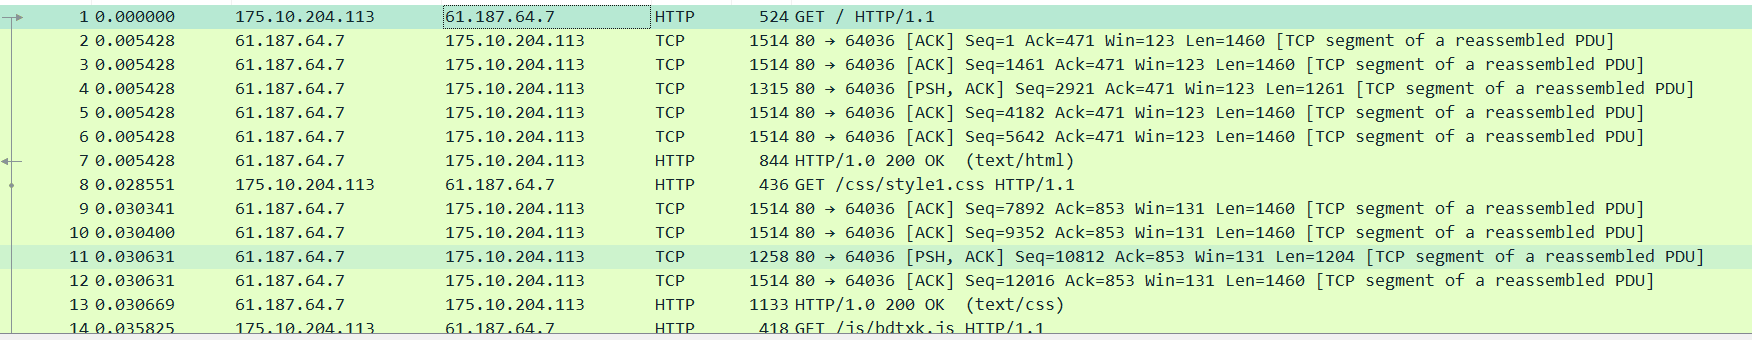
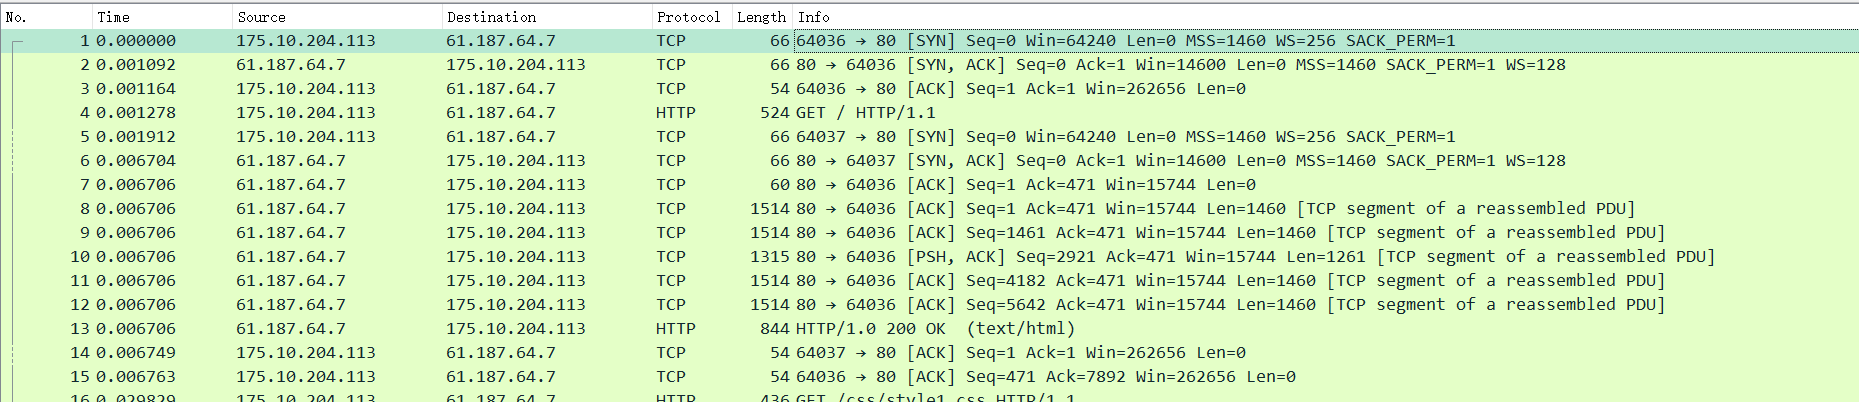
ex

diff --git a/source/_posts/HNU-computer-networks-exp1.md b/source/_posts/HNU-computer-networks-exp1.md
@@ -389,14 +389,14 @@ Wireshark（前称Ethereal）是一个网络封包分析软件。网络封包分
 
 | HTTP 客户机端口号 | HTTP 服务器端口号 | 所包括的报文号 | 步骤说明                             |
 | ----------------- | ----------------- | -------------- | ------------------------------------ |
-| 64036                | 80             | 889            | 浏览器向服务器发出连接请求           |
-| 64036                | 80             | 891            | 服务器回应了浏览器的请求，并要求确认 |
-| 64036                | 80             | 892            | 浏览器回应了服务器的确认，连接成功   |
-| 64036                | 80             | 893            | 浏览器发出一个页面HTTP请求           |
-| 64036                | 80             | 898            | 服务器确认                           |
-| 64036                | 80             | 899-903        | 服务器发送数据                       |
-| 64036                | 80             | 904            | 服务器发送状态响应码                 |
-| 64036                | 80             | 906            | 客户端浏览器确认                     |
+| 64036                | 80             | 1            | 浏览器向服务器发出连接请求           |
+| 64036                | 80             | 2            | 服务器回应了浏览器的请求，并要求确认 |
+| 64036                | 80             | 3            | 浏览器回应了服务器的确认，连接成功   |
+| 64036                | 80             | 4            | 浏览器发出一个页面HTTP请求           |
+| 64036                | 80             | 7            | 服务器确认                           |
+| 64036                | 80             | 8-12        | 服务器发送数据                       |
+| 64036                | 80             | 13            | 服务器发送状态响应码                 |
+| 64036                | 80             | 15            | 客户端浏览器确认                     |
 
 ## 那么实验到这里就结束啦！
 ---
